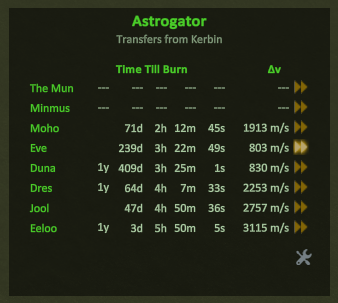
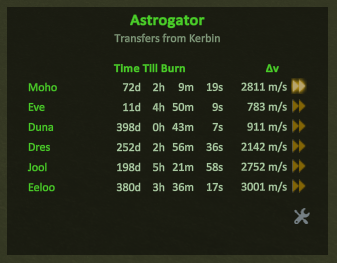
Update screenshots with '---' lines removed

diff --git a/README.md b/README.md
@@ -14,13 +14,6 @@ Unzip to your GameData folder.
 
 ## Features
 
-### Transfers to more places
-
-Many transfer calculators require the start and end bodies to be direct satellites of a common parent body.
-For example, you could transfer from Mun to Minmus but not low Kerbin orbit to Minmus, or you can transfer from Laythe to Pol but not Laythe to Kerbin.
-
-Astrogator also supports burns within the current SOI, as well as burns to bodies orbiting more distant "ancestors" of the current SOI.
-
 ### Automatic maneuver node creation
 
 When you're piloting a vessel, maneuver node icons will appear next to the delta V numbers.
@@ -28,7 +21,7 @@ Click to create maneuver nodes for that transfer:
 
 ![Maneuver creation](screenshots/maneuverCreation.png)
 
-These typically give immediate encounters for transfers to the Mun and Minmus from low Kerbin orbit, but some adjustment is usually needed for other destinations.
+These typically give immediate encounters for transfers to the Mun from low Kerbin orbit, and sometimes Minmus, Duna, and Jool, but some adjustment is usually needed for other destinations.
 
 ### Time warping
 
@@ -37,7 +30,20 @@ These typically give immediate encounters for transfers to the Mun and Minmus fr
 Click a warp icon to warp to 5 minutes before the corresponding transfer.
 If it's already within 5 minutes, you'll be auto-warped to the exact time of the transfer.
 
-### Settings
+### More transfers, fewer clicks
+
+- Shows transfers for all main reachable spheres of influence, including from parent spheres of influence, not just bodies with the same parent
+- Supports transfers to vessel's target, regardless of what it is
+- Handles "nested" ejection burns, such as when you need to burn at the right time to escape Laythe at the right time to escape Jool at the right time to reach Kerbin
+- Supports burns to bodies within the *current* sphere of influence, such as the moons of Kerbin from low Kerbin orbit
+- Uses the active vessel's location and orbital parameters to fill in as many of the input parameters as it can
+- Shows you the results in zero clicks
+- Integrates with the game to streamline use of the data
+- Moves the map view focus automatically
+- Sets the vessel's target
+- Automatically opens maneuver nodes for editing
+
+## Settings
 
 Click the wrench to open and close the settings panel:
 
@@ -107,14 +113,15 @@ make
 - http://www.somasim.com/blog/2015/04/csharp-memory-and-performance-tips-for-unity/
 - http://forum.kerbalspaceprogram.com/index.php?/topic/142712-devnote-tuesday-smashing-buttons/&do=findComment&comment=2653161
 
-## Credits
+## Credits, acknowledgements, and dedication
 
 - AN/DN logic and plane change calculations borrowed from MechJeb
 - Phase angle logic and some icons borrowed from Kerbal Alarm Clock
 - `.gitignore` borrowed from Transfer Window Planner
-- `csproj` file borrowed from Transfer Window Planner and Craft Import and adapted. (I develop with `xbuild` and so could not generate files with an IDE.)
+- `csproj` file adapted from Transfer Window Planner and Craft Import
 - r4m0n for making it easy to find plane change nodes
 - [TCShipInfo](http://forum.kerbalspaceprogram.com/index.php?/topic/59724-112-v04-resource-details-in-tracking-center/) for figuring out the tracking station API
 - Main app icon modified from http://fontawesome.io/icon/map/
 - ProjectGuid generated by https://www.guidgenerator.com/online-guid-generator.aspx
-- Hohmann, Tsiolkovsky, and Oberth for giving us the math
+- Kepler, Hohmann, Tsiolkovsky, and Oberth for giving us the math
+- In admiration of [Sailing Master Kevin Renner](https://en.wikipedia.org/wiki/The_Mote_in_God's_Eye)
